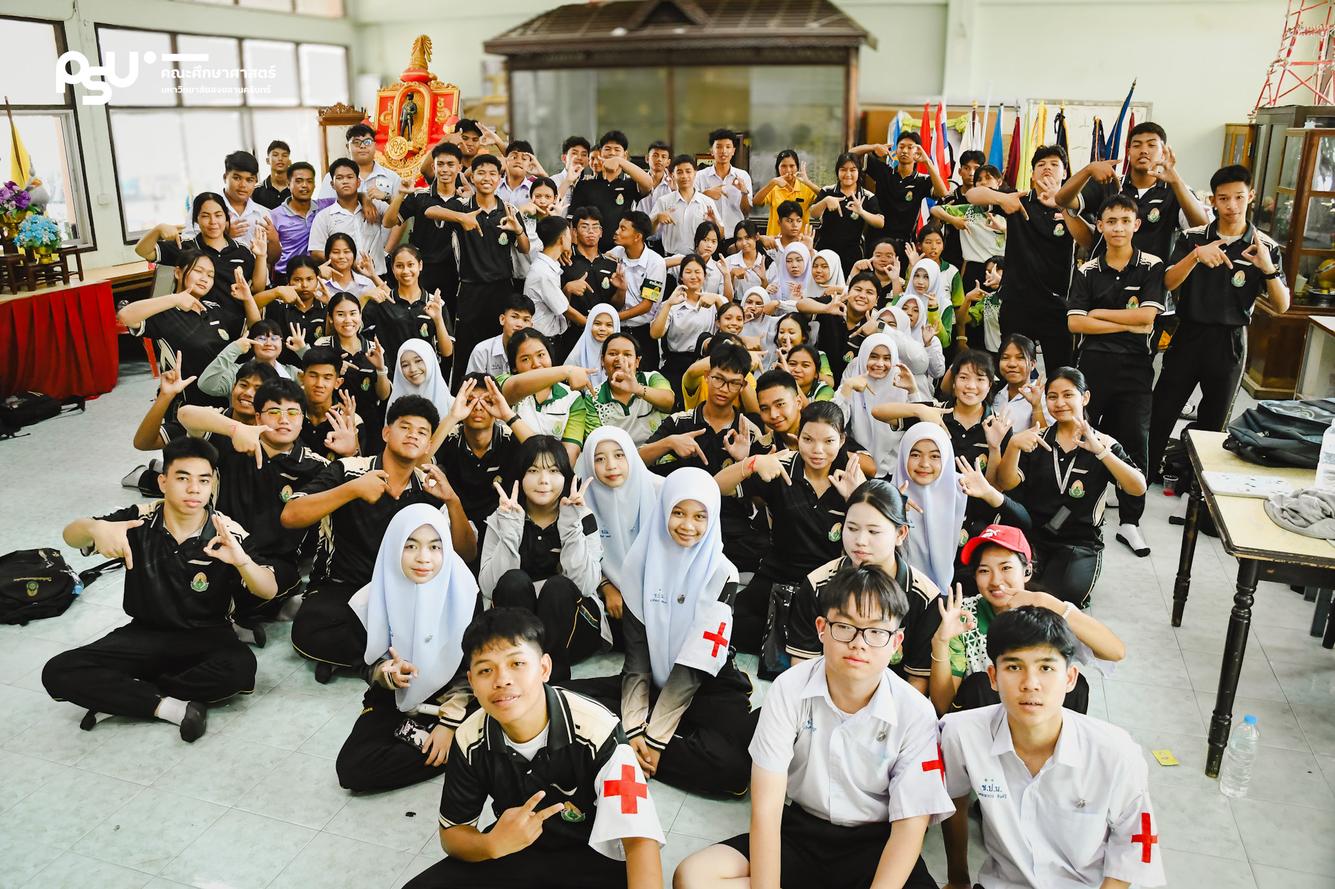
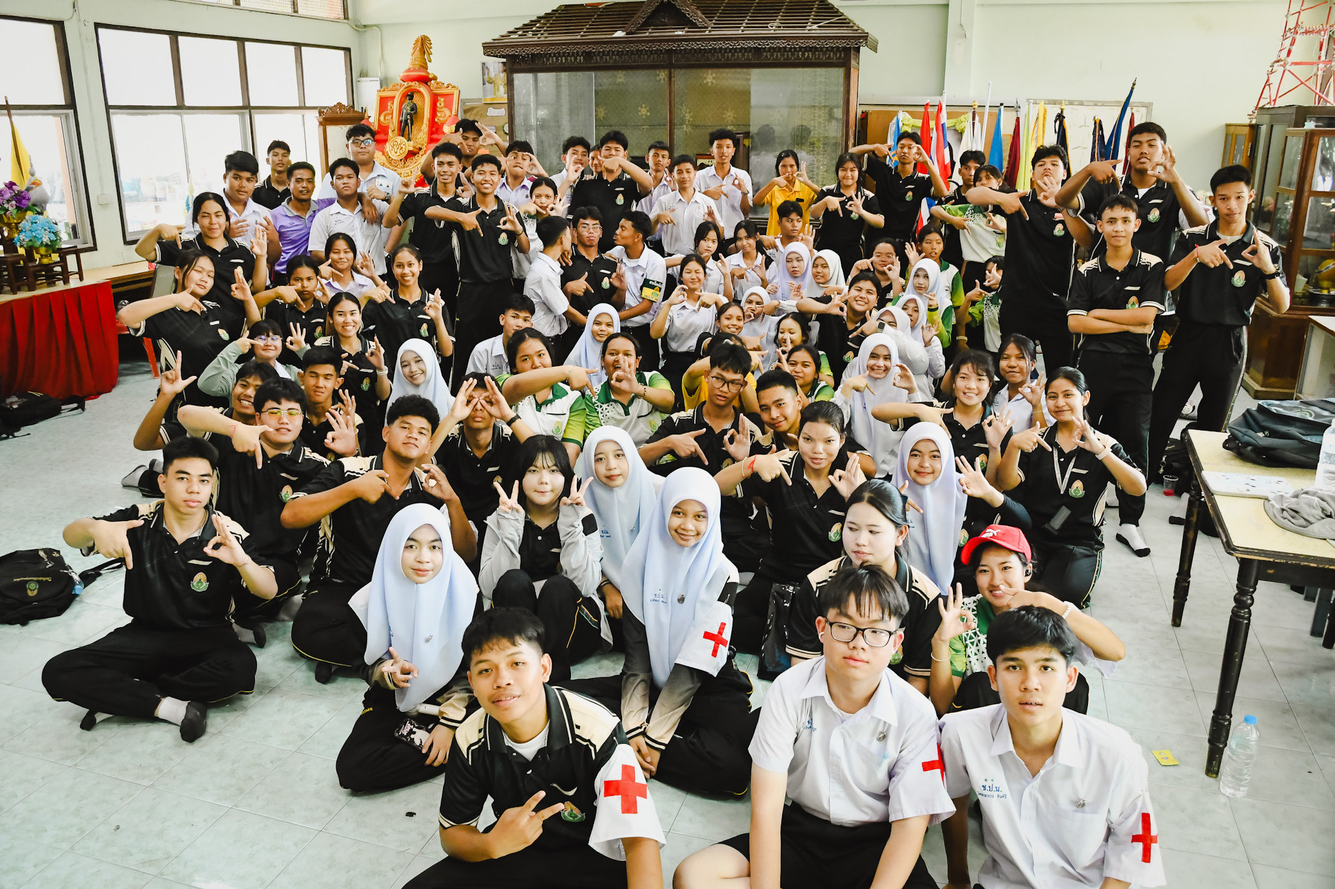
Update latest website (Sun 10/25/2026 16:36:04.91)

diff --git a/index.html b/index.html
@@ -963,7 +963,7 @@
         </div>
 
         <div class="dg-hero-image-wrap" id="heroImageWrap">
-          <img src="assets/images/hero-main.jpg?v=20261025" alt="คณะสารวัตรนักเรียน โรงเรียนเดชะปัตตนยานุกูล"
+          <img src="assets/images/hero-main.jpg?v=1792920821433" alt="คณะสารวัตรนักเรียน โรงเรียนเดชะปัตตนยานุกูล"
             id="heroCinematicImg" />
         </div>
       </div>
